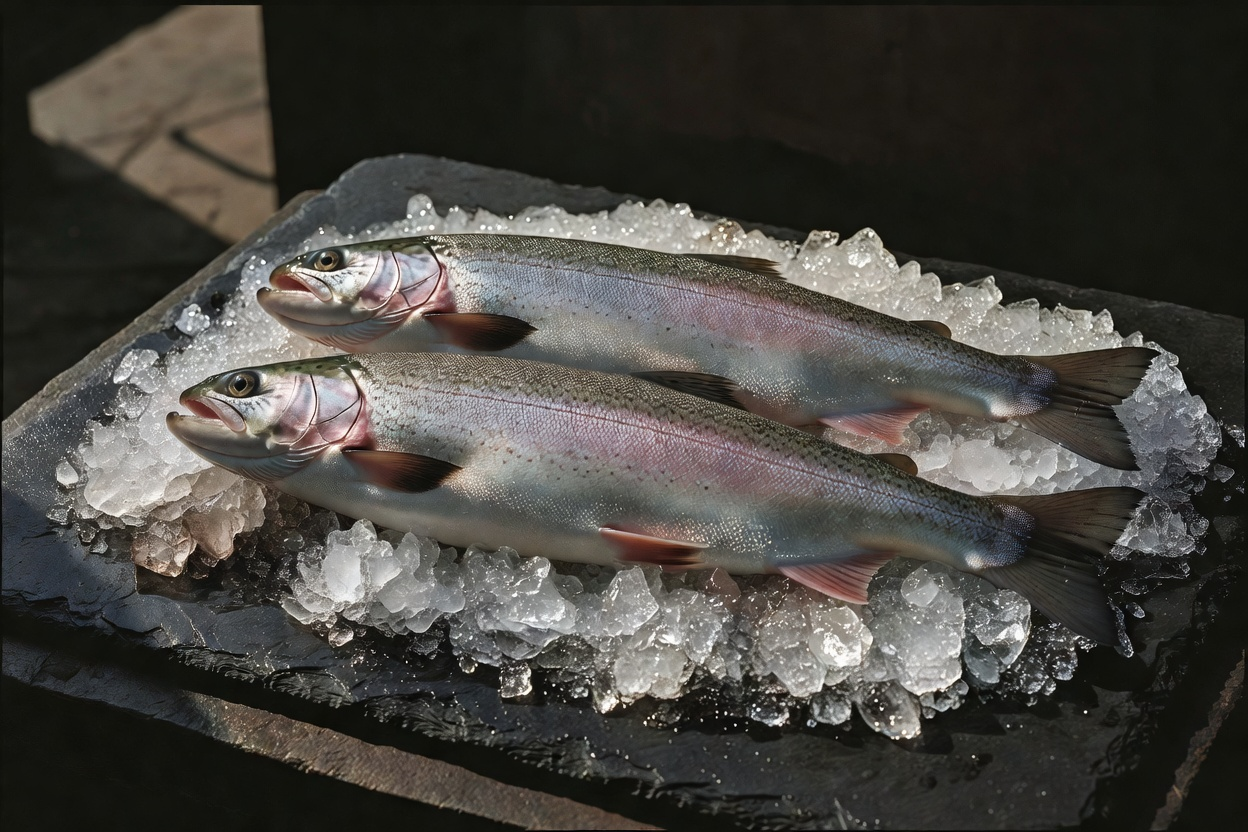
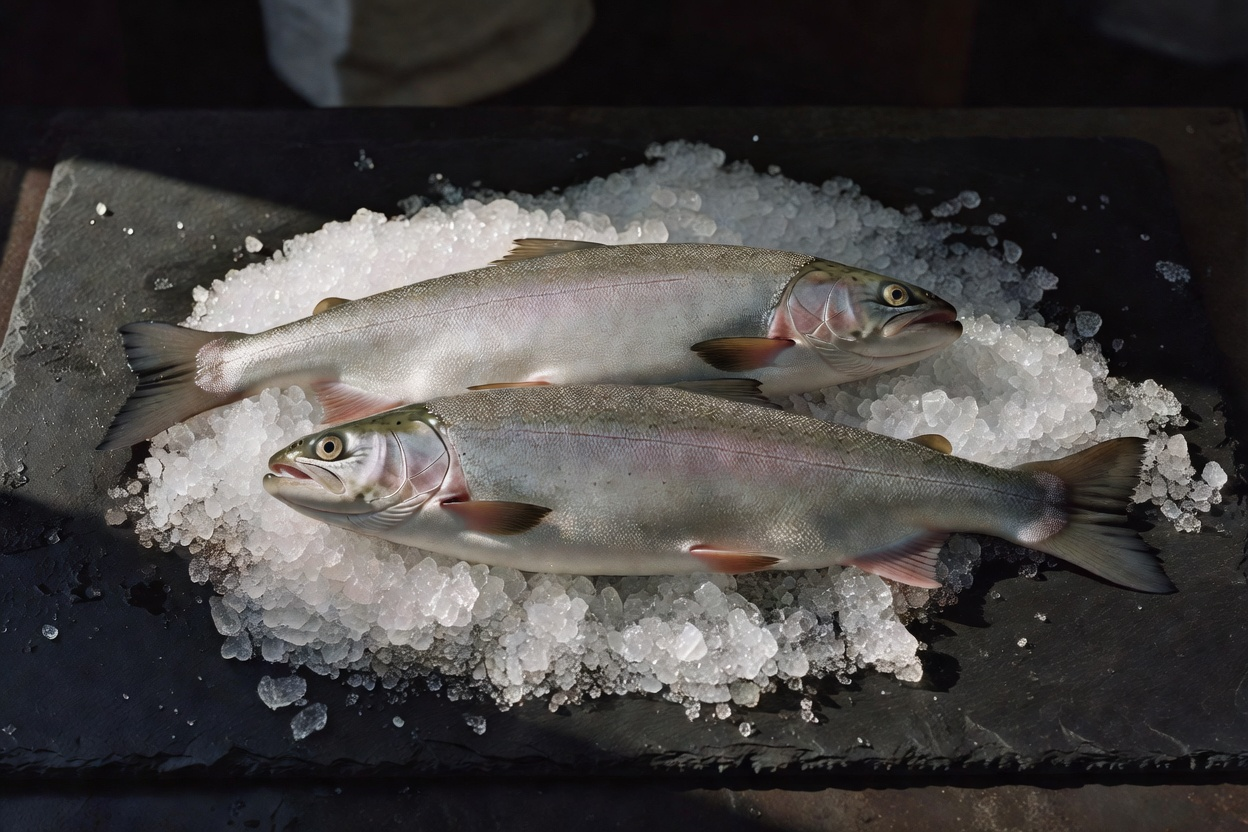
Fix trucha (shiny skin) and merluza (uniform sizes); remove Spanish labels
- trucha.jpg: matte skin, no iridescent glow, natural positioning
- merluza.jpg: irregular sizes and angles, realistic market display
- Remove Spanish name labels below photo overlays in species cards

diff --git a/app/[lang]/productos/page.tsx b/app/[lang]/productos/page.tsx
@@ -473,11 +473,6 @@ export default async function ProductosPage({
                               )}
                             </div>
                           )}
-                          {/* Alt name when photo shows main name */}
-                          {sp.photo && l !== "es" && (
-                            <div className="text-xs text-slate-400 mb-2">{sp.name}</div>
-                          )}
-
                           {/* Description */}
                           <p className="text-sm text-slate-600 leading-relaxed mb-4">
                             {sp.desc[lk]}

diff --git a/gen_fix2.py b/gen_fix2.py
@@ -1,0 +1,47 @@
+"""Fix: trucha (too shiny) and merluza (too uniform sizes)"""
+import requests, base64, os
+from pathlib import Path
+
+API_KEY = os.environ["XAI_API_KEY"]
+OUT = Path("public/images")
+
+STYLE = (
+    "on crushed ice on a dark black slate surface, dramatic natural side lighting, "
+    "muted desaturated colors, real food photography, authentic fish market quality, "
+    "gritty realistic texture, no artificial saturation, no CGI glow, "
+    "shot on 35mm film camera, natural grain, dark moody background. No text."
+)
+
+FIXES = [
+    (
+        "trucha.jpg",
+        f"Two whole fresh Rainbow Trout (Oncorhynchus mykiss) fish laid on crushed ice, "
+        f"matte grey-silver skin with faint pink lateral stripe, natural wet skin texture, "
+        f"NO iridescent sheen, NO glossy highlight, NO pink glow, realistic matte fish skin, "
+        f"slightly different sizes, natural irregular positioning {STYLE}"
+    ),
+    (
+        "merluza.jpg",
+        f"Three whole fresh Argentine Hake (Merluccius hubbsi), slightly different sizes, "
+        f"natural irregular positioning, silver-grey elongated bodies, slightly different angles, "
+        f"realistic imperfect fish market arrangement, NOT uniformly aligned, NOT identical size, "
+        f"authentic market display {STYLE}"
+    ),
+]
+
+headers = {"Authorization": f"Bearer {API_KEY}", "Content-Type": "application/json"}
+
+for filename, prompt in FIXES:
+    print(f"Generating {filename}...")
+    r = requests.post(
+        "https://api.x.ai/v1/images/generations",
+        headers=headers,
+        json={"model": "grok-imagine-image", "prompt": prompt, "n": 1, "response_format": "b64_json"},
+        timeout=60
+    )
+    r.raise_for_status()
+    img = base64.b64decode(r.json()["data"][0]["b64_json"])
+    (OUT / filename).write_bytes(img)
+    print(f"  OK ({len(img)//1024} KB)")
+
+print("Done.")